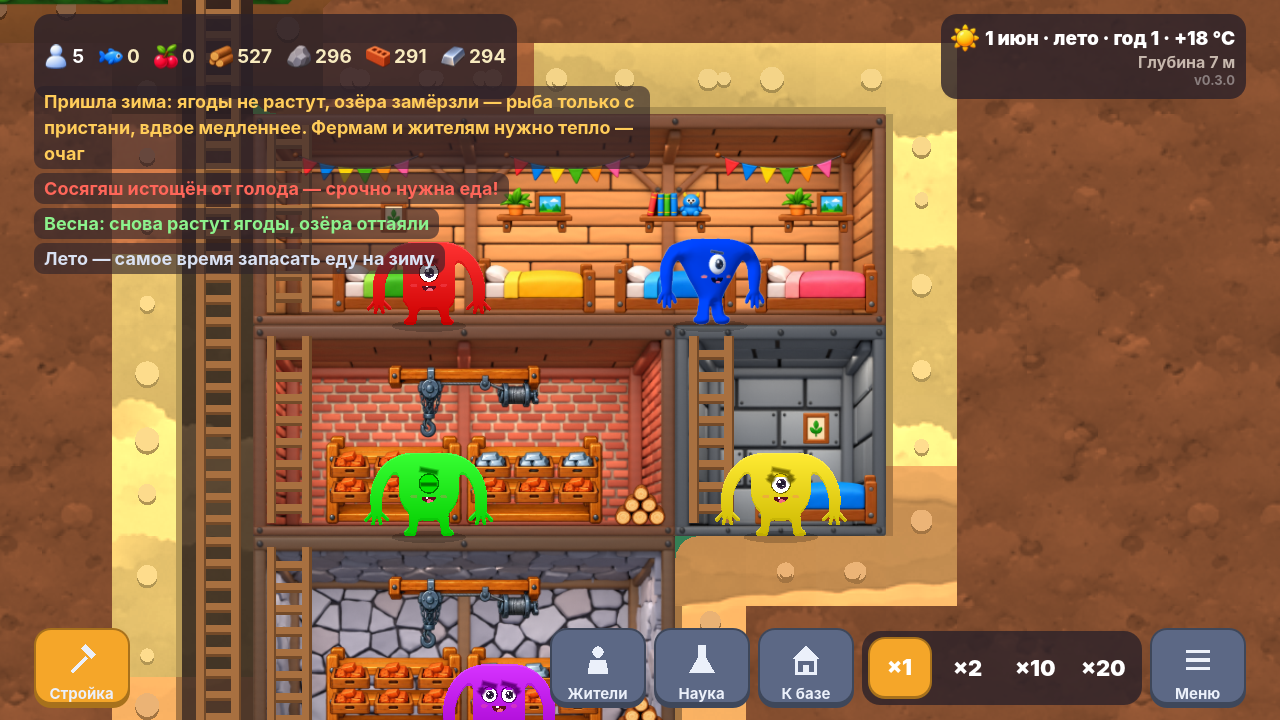
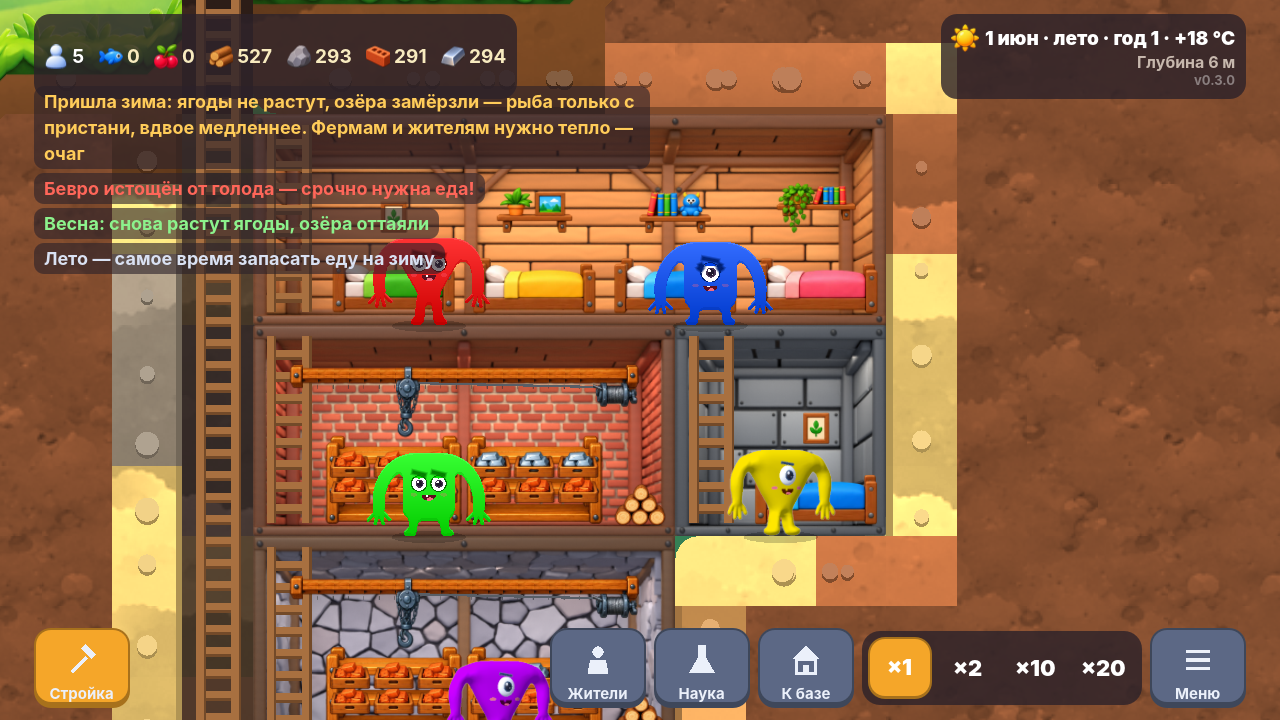
Мебель: без флажков, брус тали во всю длину склада, полки и картинки над кроватями не повторяются
Claude-Session: https://claude.ai/code/session_01Gsst3hFuf1c6zM4f6Jt7o5

diff --git a/art_src/rooms/cut_sheets.py b/art_src/rooms/cut_sheets.py
@@ -21,7 +21,7 @@ SHEETS = {
         'shelf_plant': (915, 470, 1.1), 'shelf_toy': (1310, 470, 1.05),
         'shelf_vine': (300, 715, 1.15),
         'picture_mountain': (652, 700, 0.55), 'picture_leaf': (957, 700, 0.4), 'picture_sun': (1290, 700, 0.5),
-        'bunting': (300, 900, 1.9), 'plush': (703, 905, 0.32),
+        'plush': (703, 905, 0.32),
     },
     'storage': {
         'rack': (436, 100, 2.0), 'hoist': (1066, 75, 2.2),
@@ -34,6 +34,17 @@ SHEETS = {
         'drum_oil': (320, 900, 0.42), 'tank_methane': (582, 900, 0.36),
         'barrel': (865, 900, 0.55), 'logs': (1185, 900, 0.75),
     },
+}
+
+
+# Части предмета (рамки в пикселях готового спрайта): таль режем, чтобы брус тянулся во всю комнату.
+PARTS = {
+    'storage': {'hoist': {
+        'hoist_cap': (0, 0, 27, 48),        # левый торец бруса
+        'hoist_beam': (30, 0, 58, 48),      # кусок бруса — повторяется по длине
+        'hoist_block': (58, 0, 102, 136),   # блок с цепью и крюком (с куском бруса за ним)
+        'hoist_winch': (196, 0, 282, 90),   # лебёдка с правым торцом
+    }},
 }
 
 
@@ -54,8 +65,11 @@ def cut(room, items):
         item[..., 3] = np.where(mask[y0:y1, x0:x1], item[..., 3], 0)
         w = round(width_m * PX_PER_M)
         h = round(item.shape[0] * w / item.shape[1])
-        Image.fromarray(item, 'RGBA').resize((w, h), Image.LANCZOS).save(os.path.join(OUT, room, name + '.png'))
+        sprite = Image.fromarray(item, 'RGBA').resize((w, h), Image.LANCZOS)
+        sprite.save(os.path.join(OUT, room, name + '.png'))
         print(room, name, (w, h), '%.2f×%.2f м' % (width_m, h / PX_PER_M))
+        for part, box in PARTS.get(room, {}).get(name, {}).items():
+            sprite.crop(box).save(os.path.join(OUT, room, part + '.png'))
 
 
 if __name__ == '__main__':

diff --git a/docs/DESIGN_PLAN.md b/docs/DESIGN_PLAN.md
@@ -50,7 +50,7 @@
    предметы — из листов `art_src/rooms/sheets/<комната>_items.png` на прозрачном фоне (с прототипа
    деревянная мебель от деревянной стены чисто не отделяется — проверено, в т. ч. rembg);
    нарезка `art_src/rooms/cut_sheets.py` → `assets/furniture/<комната>/`, расстановка —
-   `StructureLayer._draw_home_furniture` / `_draw_storage_furniture`. Готово: жилая, склад;
+   `StructureLayer._draw_home_furniture` / `_draw_storage_furniture`. Готово: жилая, склад (без флажков; брус тали — во всю комнату);
    состояния «строится» / «повреждена».
 4. Улица — деревья по сезонам, ели, кусты, валуны (модели).
 5. Жители — квадратные и круглые на основе `art_src/characters/BlueBuddy.blend`,
